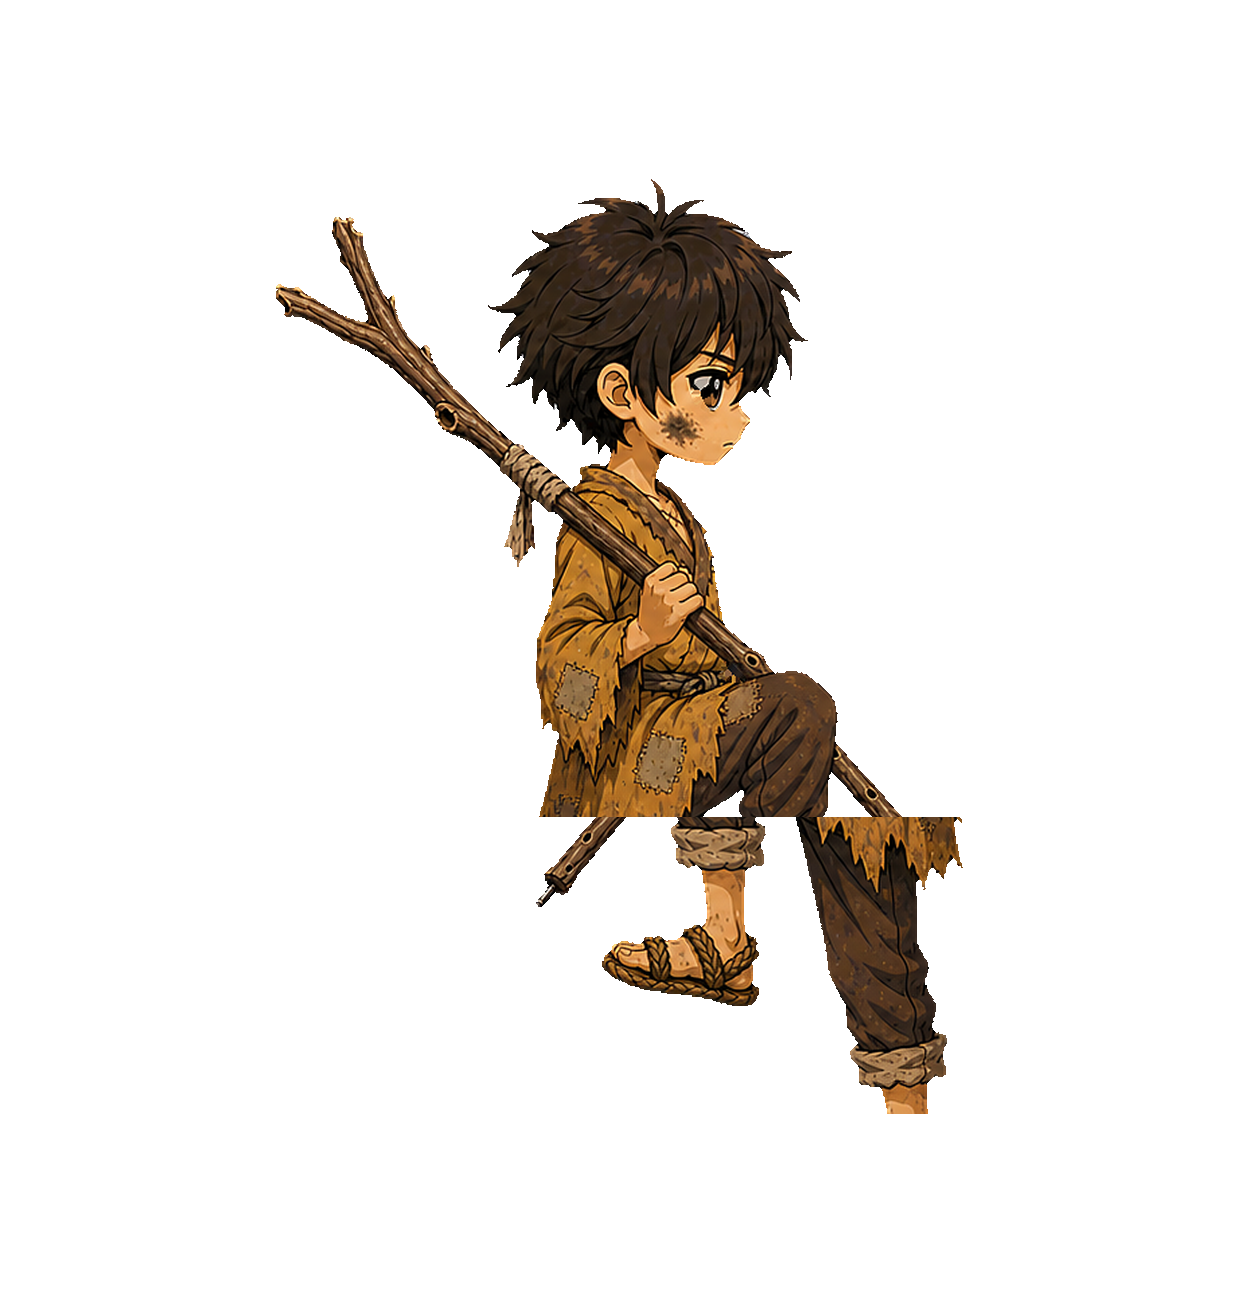
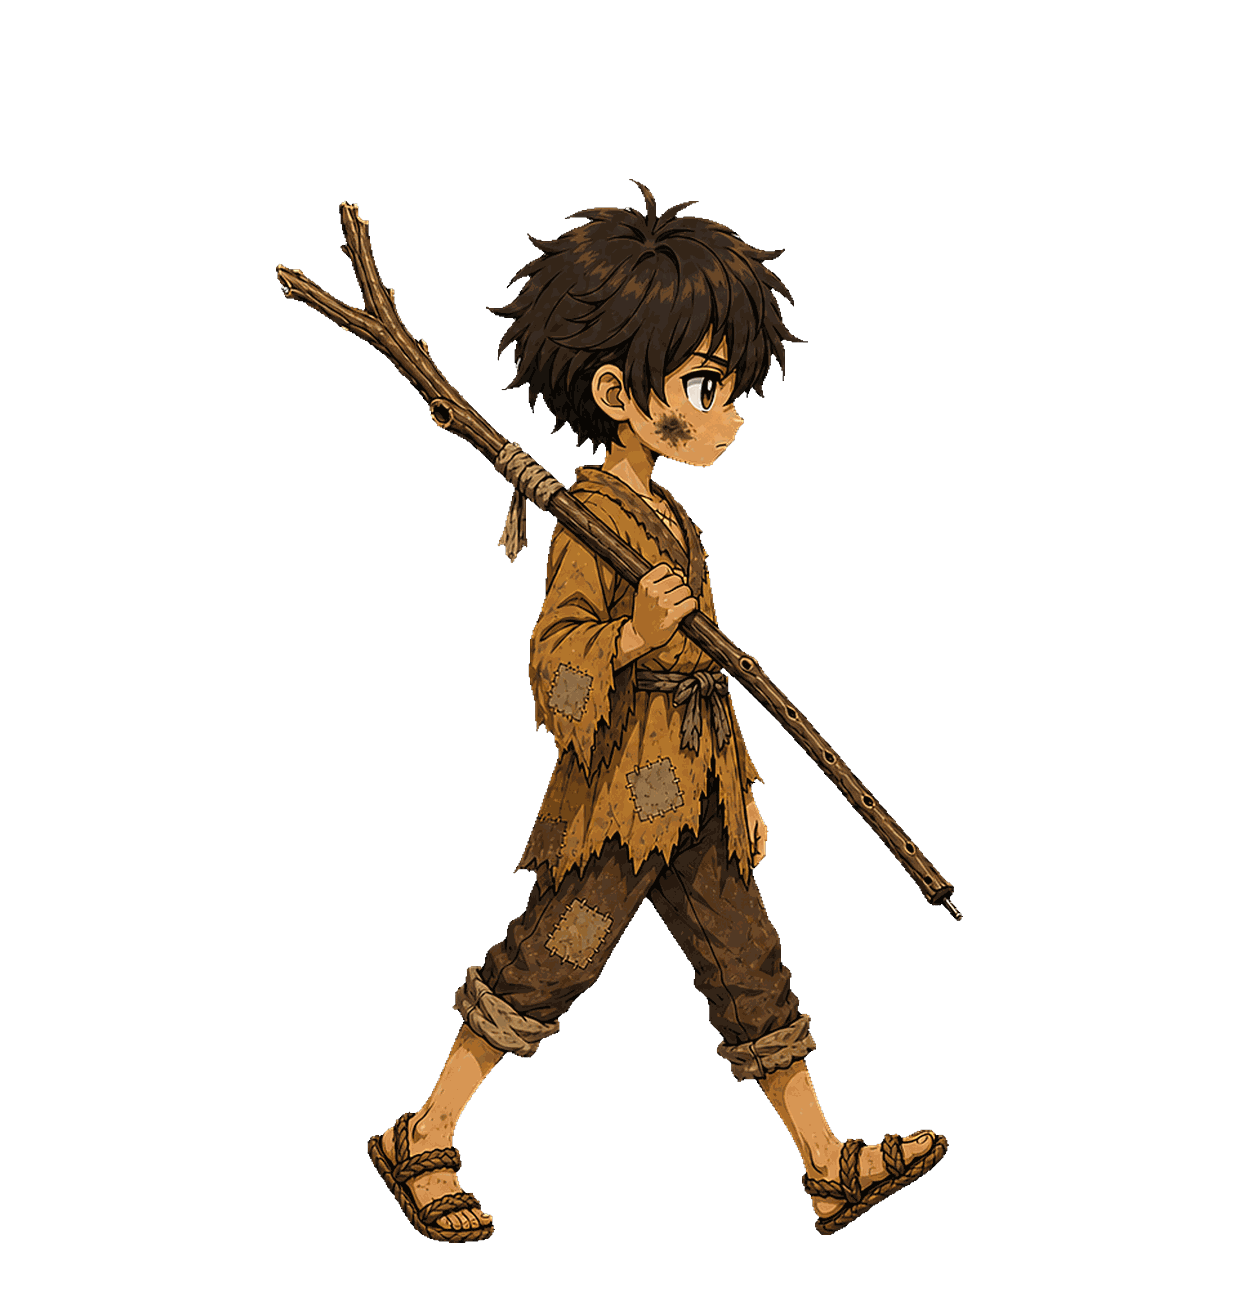
fix(player): 走路 v7 — 8 幀 gait cycle + 步頻位移同步根治滑步(Codex 2 輪 APPROVE)

Changed region(s): [[0.2145, 0.1231, 0.7968, 0.9538]]

diff --git a/src/game/scenes/Game.ts b/src/game/scenes/Game.ts
@@ -561,13 +561,16 @@ export class Game extends Scene
         if (!this.anims.exists('player_walk')) {
             this.anims.create({
                 key: 'player_walk',
-                // walk_sheet_v4:GPT-4o 一張雙姿勢 sheet(上半身完全一致只腿不同)→ 切 2 pose + 腿鏡像補另 2。
-                // 0 寬接觸右腳前 / 1 高抬膝(左) / 2 寬接觸左腳前(腿鏡像) / 3 高抬膝(右)。誇張跨步小尺寸也讀得出左右左右。
-                // 4 幀頭頂 181-183、腳底全 1240 對齊 → headScreenY 螢幕變化 0(零垂直抖動,已 Playwright 量測驗證)。
+                // walk v7(round 7 重設計):8 幀完整 gait cycle —
+                // 0 寬接觸右前 / 1 重心移轉收腿 / 2 高抬左膝 / 3 左腿前伸 / 4 寬接觸左前 / 5 收腿(鏡) / 6 高抬右膝 / 7 右腿前伸。
+                // 新增幀 1/3 來自 v7 雙姿勢 sheet,5/7 = 腿鏡像 + foot-fix。8 幀頭頂 179-181、腳底全 1242 對齊(零垂直抖)。
                 frames: [
-                    { key: 'player_walk_0' }, { key: 'player_walk_1' }, { key: 'player_walk_2' }, { key: 'player_walk_3' }
+                    { key: 'player_walk_0' }, { key: 'player_walk_1' }, { key: 'player_walk_2' }, { key: 'player_walk_3' },
+                    { key: 'player_walk_4' }, { key: 'player_walk_5' }, { key: 'player_walk_6' }, { key: 'player_walk_7' }
                 ],
-                frameRate: 8,  // 4 誇張幀 @8fps(125ms/幀,cycle 500ms)= 順暢步頻不拖
+                // 步頻與位移同步(根治滑步):接觸幀兩腳距 633 art px × (376/1300) ≈ 183 world px = 每步地面距離。
+                // cycle = 2 步 × 183 / (MOVE_SPEED×1000) ≈ 0.915s → frameRate = 8 幀 / 0.915s ≈ 8.74(基準移速時腳落點固定)。
+                frameRate: 8.74,
                 repeat: -1
             });
         }
@@ -1605,6 +1608,7 @@ export class Game extends Scene
         this.player.angle = 0;
         if (state === 'idle') {
             this.player.anims.stop();
+            this.player.anims.timeScale = 1;
             this.player.setTexture('player_idle');
         } else {
             this.player.play('player_walk', true);
@@ -1622,6 +1626,7 @@ export class Game extends Scene
         this.player.angle = 0;  // 清走路 lean,attack 不帶傾斜
         this.player.off('animationcomplete-player_attack');
         this.playerActionAnim = 'attacking';
+        this.player.anims.timeScale = 1;  // walk 的移速同步不影響攻擊播放速率
         this.player.play('player_attack', true);
         this.lockPlayerScale();  // animationupdate 不觸發首 frame,手動鎖一次
         this.player.once('animationcomplete-player_attack', () => {
@@ -1718,6 +1723,13 @@ export class Game extends Scene
         const ny = this.player.y + normDy * speed * delta;
         this.player.x = Math.max(60, Math.min(this.mapConfig.width - 60, nx));
         this.player.y = Math.max(60, Math.min(this.mapConfig.height - 60, ny));
+        // walk v7 滑步根治:步頻跟實際位移同步。walk anim 基準 frameRate 8.74 對應基準速度
+        // (MOVE_SPEED,搖桿全推)。實際速度因 talent buff / 搖桿半推改變時等比縮放播放速率,
+        // 腳落點才不會相對地面滑動。attack anim 播放時不動 timeScale(playWeaponAttackAnim 重設 1)。
+        if (!this.playerActionAnim) {
+            // 直接等比(不設下限):慢推搖桿時動畫同樣慢,腳落點才恆貼地(Codex review fix)
+            this.player.anims.timeScale = Math.min(mag, 1) * (1 + buff.moveSpeedPct);
+        }
         // Phase 4c B fix:戰鬥朝向期間(剛攻擊過)不用移動方向覆蓋 flipX,避免往後走背打
         if (Math.abs(normDx) > 0.1 && this.time.now > this.combatFaceUntilMs) {
             this.player.setFlipX(normDx < 0);
@@ -1914,6 +1926,7 @@ export class Game extends Scene
         this.player.angle = 0;  // 清走路 lean
         this.player.off('animationcomplete-player_hurt');
         this.playerActionAnim = 'hurt';
+        this.player.anims.timeScale = 1;  // 不繼承 walk 移速同步值(Codex review fix)
         this.player.play('player_hurt', true);
         this.lockPlayerScale();  // hurt 單 frame,animationupdate 永不觸發,必手動鎖
         this.player.once('animationcomplete-player_hurt', () => {

diff --git a/src/game/scenes/Preloader.ts b/src/game/scenes/Preloader.ts
@@ -42,8 +42,8 @@ export class Preloader extends Scene
         // V1 主角 frame anim(Phase 4b-10:idle/walk + 4b-14:attack/hurt)
         this.load.image('player_idle', 'characters/player_scavver_sideview_idle.png');
         this.load.image('player_portrait', 'characters/player_scavver_portrait.png');  // 正面全身立繪(登入/選單/裝備頁用,地圖才側視)
-        // 走路 4 幀真 walk cycle(GPT-4o 一張 sheet 生:接觸大張 / 通過抬膝 / 接觸反向 / 通過反向,頭腳對齊零抖動)
-        for (let i = 0; i < 4; i++) this.load.image(`player_walk_${i}`, `characters/player_scavver_walk_${i}.png`);
+        // 走路 8 幀完整 gait cycle(walk v7:接觸/收腿/抬膝/前伸 ×左右,頭腳對齊零抖動,步頻與位移同步)
+        for (let i = 0; i < 8; i++) this.load.image(`player_walk_${i}`, `characters/player_scavver_walk_${i}.png`);
         this.load.image('player_atk_windup', 'characters/player_scavver_attack_windup.png');
         this.load.image('player_atk_impact', 'characters/player_scavver_attack_impact.png');
         this.load.image('player_hurt', 'characters/player_scavver_hurt.png');